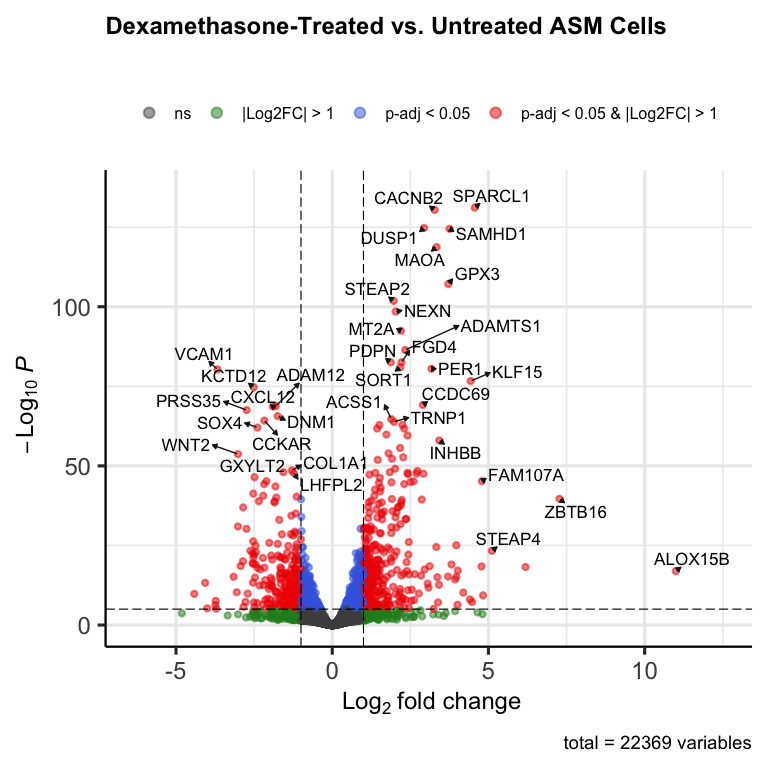
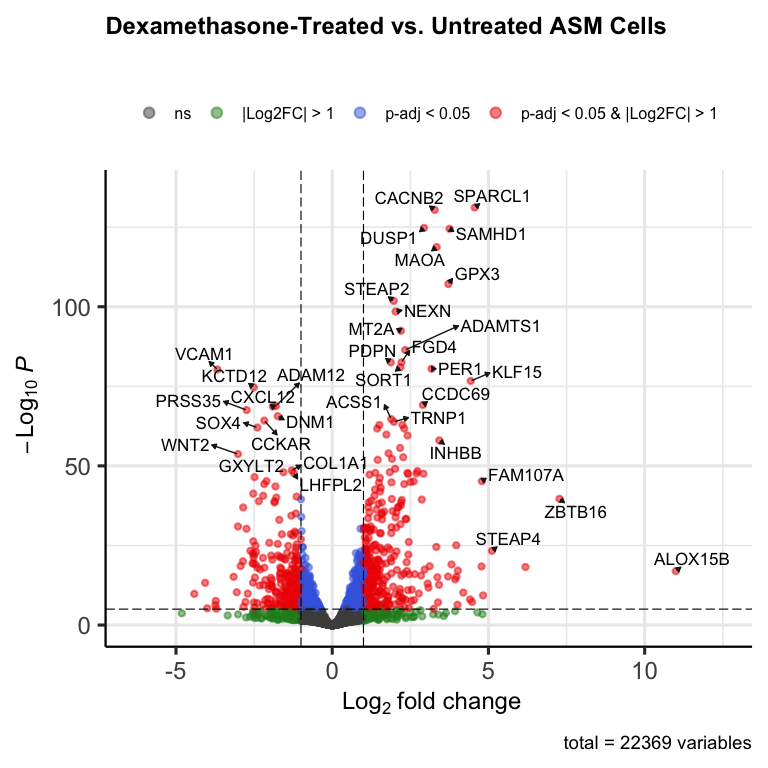
updates

diff --git a/Airway_Seq-Script.md b/Airway_Seq-Script.md
@@ -9,7 +9,8 @@ Bulk RNA-seq was performed on four human airway smooth muscle (ASM) cell
 lines under two conditions: <u>**untreated**</u> & <u>**treated**</u>
 (with dexamethasone). The goal of this analysis is to assess the
 <u>**transcriptional response**</u> of ASM cells to synthetic
-glucocorticoid exposure. (<u>GEO: GSE52778</u>)
+glucocorticoid exposure. [<u>GEO:
+GSE52778</u>](https://www.ncbi.nlm.nih.gov/geo/query/acc.cgi?acc=GSE52778)
 
 Utilising the `DESeq2` framework, quality control of the datasets are
 performed, differentially-expressed genes were identified, and
@@ -151,7 +152,7 @@ dds <- DESeqDataSetFromMatrix(
   countData=countsdata,
   colData=coldata,
   rowData=rowdata,
-  design=~cellLine+dexamethasone 
+  design=~cellLine+dexamethasone # test for effects of treatment, while accounting for cell line differences
   )
 ```
 
@@ -287,6 +288,10 @@ summary(res)
     ## [1] see 'cooksCutoff' argument of ?results
     ## [2] see 'independentFiltering' argument of ?results
 
+Next, `plotMA()` is used before and after log2 fold change (LFC)
+shrinkage to visualize how the shrinkage algorithm suppresses the noisy,
+exaggerated fold changes typically seen in low-count genes.
+
 ``` r
 plotMA(res)
 ```
@@ -416,6 +421,11 @@ pheatmap(
 
 ![](fig_output/top30-heatmap-1.png)<!-- -->
 
+``` r
+# write the top 30 DEGs into a table:
+write_csv(head(degs, 30), "fig_output/top30DEGs.csv")
+```
+
 #### Volcano Plot
 
 A volcano plot will be plotted to visualise the differentially expressed
@@ -460,7 +470,14 @@ EnhancedVolcano(
 
 ![](fig_output/volcanoplot-1.png)<!-- -->
 
-### Gene Set Enrichment Analysis (GSEA)
+### Over-Representation Analysis (ORA)
+
+To identify the biological themes driven by dexamethasone treatment, we
+perform Over-Representation Analysis (ORA) on the differentially
+expressed genes. The significant genes (padj \< 0.05) are split into
+upregulated and downregulated subsets to isolate distinct functional
+responses, mapping their Ensembl IDs to Entrez IDs before querying the
+GO Biological Processes database.
 
 ``` r
 suppressPackageStartupMessages({
@@ -474,47 +491,84 @@ suppressPackageStartupMessages({
     ## Warning: package 'enrichplot' was built under R version 4.5.2
 
 ``` r
-# Extract significant Ensembl IDs
-sig_genes <- rownames(degs)
+# Extract significant upregulated and downregulated Ensembl IDs
+up_genes <- degs |> 
+  filter(log2FoldChange > 0) |> 
+  rownames()
+down_genes <- degs |> 
+  filter(log2FoldChange < 0) |> 
+  rownames()
 
 # Convert Ensembl IDs to Entrez IDs
-entrez_ids <- mapIds(org.Hs.eg.db,
-                     keys = sig_genes,
-                     column = "ENTREZID",
-                     keytype = "ENSEMBL",
-                     multiVals = "first")
+up_entrez <- mapIds(org.Hs.eg.db, keys = up_genes, column = "ENTREZID", keytype = "ENSEMBL", multiVals = "first")
+```
+
+    ## 'select()' returned 1:many mapping between keys and columns
+
+``` r
+down_entrez <- mapIds(org.Hs.eg.db, keys = down_genes, column = "ENTREZID", keytype = "ENSEMBL", multiVals = "first")
 ```
 
     ## 'select()' returned 1:many mapping between keys and columns
 
 ``` r
 # Remove NAs from failed mappings
-entrez_ids <- na.omit(entrez_ids)
+up_entrez <- na.omit(up_entrez)
+down_entrez <- na.omit(down_entrez)
 ```
 
 ``` r
-# Run GO Enrichment Analysis
-ego <- enrichGO(gene          = entrez_ids,
-                OrgDb         = org.Hs.eg.db,
-                ont           = "BP", # Focuses on Biological Processes
-                pAdjustMethod = "BH",
-                pvalueCutoff  = 0.05,
-                qvalueCutoff  = 0.05,
-                readable      = TRUE) # Maps Entrez back to symbols for clean plots
+# Run GO Enrichment Analysis independently for both lists
+ego_up <- enrichGO(
+  gene          = up_entrez,
+  OrgDb         = org.Hs.eg.db,
+  ont           = "BP", 
+  pAdjustMethod = "BH",
+  pvalueCutoff  = 0.05,
+  qvalueCutoff  = 0.05,
+  readable      = TRUE
+)
+
+ego_down <- enrichGO(
+  gene          = down_entrez,
+  OrgDb         = org.Hs.eg.db,
+  ont           = "BP", 
+  pAdjustMethod = "BH",
+  pvalueCutoff  = 0.05,
+  qvalueCutoff  = 0.05,
+  readable      = TRUE
+)
 ```
 
 ``` r
-# Generate a dotplot of the top enriched pathways
-dotplot(ego, showCategory = 15) + 
-  ggtitle("Top 15 Enriched Biological Processes") +
+# Generate dotplots of the top enriched pathways
+dotplot(ego_up, showCategory = 15) + 
+  ggtitle("Top 15 Enriched Biological Processes (Upregulated)") +
   theme(plot.title = element_text(hjust = 0.5))
 ```
 
-![](fig_output/enrichBP-1.png)<!-- -->
+![](fig_output/enrichBP-up-1.png)<!-- -->
+
+``` r
+dotplot(ego_down, showCategory = 15) + 
+  ggtitle("Top 15 Enriched Biological Processes (Downregulated)") +
+  theme(plot.title = element_text(hjust = 0.5))
+```
+
+![](fig_output/enrichBP-down-1.png)<!-- -->
+
+The GO enrichment showed that upregulated genes were mainly associated
+with cytoskeletal organisation, cell adhesion, and cellular
+stress/metabolic responses, reflecting the known role of glucocorticoids
+in driving structural airway remodeling and metabolic shifts.
+Conversely, downregulated genes were enriched in broad developmental and
+extracellular matrix-related processes, which may capture the broad
+suppressive nature of dexamethasone on cellular proliferation and
+off-target signaling cascades.
 
 ### Conclusions / Discussions
 
-The exploratory sample-level analyses—spanning sample distance
+The exploratory sample-level analyses, which spanned sample distance
 clustering and principal component analysis—demonstrate robust data
 quality with high replicate concordance and no outlier samples. The
 primary axis of variation corresponds directly to treatment status,
@@ -523,3 +577,14 @@ Together, these diagnostic checks validate the integrity of the count
 data and confirm that a paired design formula (`~ cell + dexamethasone`)
 is appropriate for controlling biological background variation in
 downstream differential expression testing.
+
+Building on this robust model, differential expression analysis
+successfully isolated the transcriptional signature of synthetic
+glucocorticoid exposure. The application of LFC shrinkage mitigated
+noise from low-count transcripts, revealing distinct functional
+divergence. Upregulated networks highlight dexamethasone’s induction of
+metabolic and cytoskeletal remodeling in airway smooth muscle cells,
+while the downregulated networks capture sweeping suppression of
+developmental and extracellular matrix pathways. Ultimately, this
+pipeline effectively bridges robust statistical modeling with clear
+biological pathway resolution.

diff --git a/README.md b/README.md
@@ -10,6 +10,8 @@ This repository contains code (in R) to evaluate the effects of synthetic glucoc
 
 - **Data Source**: GEO accession number [GSE52778](https://www.ncbi.nlm.nih.gov/geo/query/acc.cgi?acc=GSE52778)
 
+(note that the full GEO dataset contains other treatment arms such as `albuterol` and `dexamethasone+albuterol`, but dexamethasone will be the focus for this analysis.)
+
 ## Workflow
 
 The core analysis pipeline is documented in Airway_Seq-Script.md and performs the following steps:
@@ -36,8 +38,9 @@ To run the script successfully, ensure that the following R packages are install
 
 - `org.Hs.eg.db` and `AnnotationDbi`
 
-## Key Conclusions 
+## Key Conclusions
 
-- Exploratory analyses confirm robust data quality with high replicate concordance and no outlier samples.
-
-- The primary source of variation is driven largely by treatment status (*dexamethasone vs untreated*).
+- Secondary clustering reflects donor-specific differences, confirming the necessity of a paired design formula (`~ cellLine + dexamethasone`) to effectively control for biological background variation.
+- Applying log2 fold change shrinkage (`apeglm`) successfully mitigated statistical noise from low-count transcripts, ensuring that downstream pathway analysis was driven by true biological signals rather than mathematical artifacts.
+- Over-Representation Analysis (ORA) revealed that dexamethasone strongly upregulates networks associated with cytoskeletal organisation, cell-substrate adhesion, and metabolic shifts (e.g., insulin response).
+- Conversely, downregulated gene signatures were heavily enriched in broad developmental and extracellular matrix-related pathways, capturing the pervasive suppressive effects of glucocorticoids on cellular proliferation and off-target signaling.
